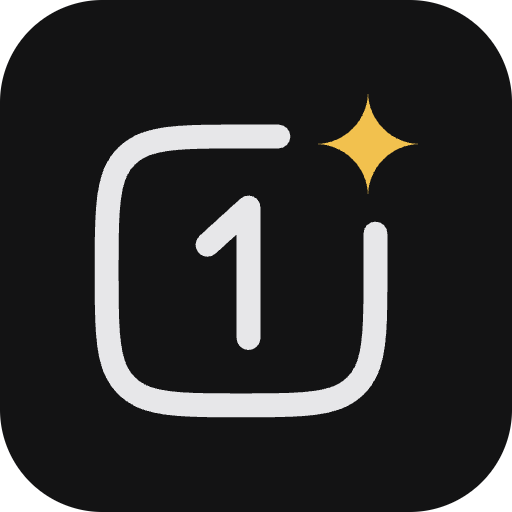
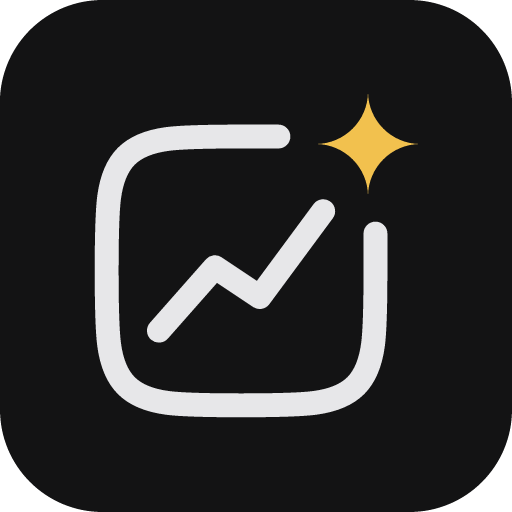
feat(web): give markets its own mark and name 1ctx in the titles
The mark is 1ctx's chip and sparkle with a rising price line in place
of the 1. It is the tab and home screen icon and the folded rail's
logo, and the sign-in sets it beside 1ctx's wordmark over Markets; the
open rail keeps 1ctx's logo. Tabs end in "1ctx Markets", and Home is
the brand alone.

Changed region(s): [[0.2812, 0.375, 0.6562, 0.6875]]

diff --git a/src/web/lib/icons.tsx b/src/web/lib/icons.tsx
@@ -4,6 +4,10 @@
 const SPARKLE =
   "M19.5 1.0C19.5 2.925 21.075 4.5 23.0 4.5C21.075 4.5 19.5 6.075 19.5 8.0C19.5 6.075 17.925 4.5 16.0 4.5C17.925 4.5 19.5 2.925 19.5 1.0Z";
 
+// "1ctx" in the wordmark's outlines, its baseline at 0
+const WORD =
+  "M4.03 0V-5.42H13.14V-29.2L3.98 -22.49V-29.2L12.03 -35H19.13V-5.42H26.47V0Z M42.62 0.48Q39.22 0.48 36.7 -0.79Q34.18 -2.06 32.79 -4.39Q31.4 -6.71 31.4 -9.88V-16.49Q31.4 -19.66 32.79 -21.98Q34.18 -24.31 36.7 -25.58Q39.22 -26.85 42.62 -26.85Q47.56 -26.85 50.56 -24.28Q53.55 -21.72 53.7 -17.31H47.8Q47.66 -19.37 46.24 -20.5Q44.83 -21.62 42.62 -21.62Q40.18 -21.62 38.79 -20.3Q37.4 -18.99 37.4 -16.54V-9.88Q37.4 -7.43 38.79 -6.09Q40.18 -4.75 42.62 -4.75Q44.88 -4.75 46.27 -5.87Q47.66 -7 47.8 -9.06H53.7Q53.55 -4.65 50.56 -2.09Q47.56 0.48 42.62 0.48Z M72.64 0Q68.95 0 66.76 -2.13Q64.58 -4.27 64.58 -7.91V-20.95H57.29V-26.37H64.58V-33.8H70.62V-26.37H81.12V-20.95H70.62V-8.05Q70.62 -6.9 71.27 -6.16Q71.92 -5.42 73.07 -5.42H80.88V0Z M85.15 0 94.36 -13.62 85.77 -26.37H92.53L96.61 -19.9Q96.99 -19.32 97.33 -18.6Q97.66 -17.88 97.81 -17.45Q98 -17.88 98.31 -18.6Q98.62 -19.32 99.01 -19.9L103.08 -26.37H109.89L101.31 -13.62L110.47 0H103.66L99.1 -7.24Q98.72 -7.82 98.36 -8.56Q98 -9.3 97.81 -9.73Q97.62 -9.3 97.28 -8.56Q96.95 -7.82 96.56 -7.24L91.96 0Z";
+
 // the brand book's stroke: 1.75 under 32 px, 1.5 from there
 export function Mark({ size = 24 }: { size?: number }) {
   return (
@@ -16,11 +20,11 @@ export function Mark({ size = 24 }: { size?: number }) {
       stroke-width={size < 32 ? 1.75 : 1.5}
       stroke-linecap="round"
       stroke-linejoin="round"
-      aria-label="1ctx"
+      aria-label="Markets"
       role="img"
     >
       <path d="M13.5 4H11C6.757 4 4.636 4 3.318 5.318S2 8.758 2 13s0 6.364 1.318 7.682S6.758 22 11 22s6.364 0 7.682-1.318S20 17.242 20 13v-2.5" />
-      <path d="M8.75 11.25 11.5 8.75V17.5" />
+      <path d="M5.5 17 9.25 12.75 12.25 14.75 16.5 9" />
       <path fill="var(--sparkle)" stroke="none" d={SPARKLE} />
     </svg>
   );
@@ -54,11 +58,22 @@ export function Logo({ height = 26 }: { height?: number }) {
           d={SPARKLE}
         />
       </g>
-      <path
-        fill="currentColor"
-        transform="translate(23 68.5)"
-        d="M4.03 0V-5.42H13.14V-29.2L3.98 -22.49V-29.2L12.03 -35H19.13V-5.42H26.47V0Z M42.62 0.48Q39.22 0.48 36.7 -0.79Q34.18 -2.06 32.79 -4.39Q31.4 -6.71 31.4 -9.88V-16.49Q31.4 -19.66 32.79 -21.98Q34.18 -24.31 36.7 -25.58Q39.22 -26.85 42.62 -26.85Q47.56 -26.85 50.56 -24.28Q53.55 -21.72 53.7 -17.31H47.8Q47.66 -19.37 46.24 -20.5Q44.83 -21.62 42.62 -21.62Q40.18 -21.62 38.79 -20.3Q37.4 -18.99 37.4 -16.54V-9.88Q37.4 -7.43 38.79 -6.09Q40.18 -4.75 42.62 -4.75Q44.88 -4.75 46.27 -5.87Q47.66 -7 47.8 -9.06H53.7Q53.55 -4.65 50.56 -2.09Q47.56 0.48 42.62 0.48Z M72.64 0Q68.95 0 66.76 -2.13Q64.58 -4.27 64.58 -7.91V-20.95H57.29V-26.37H64.58V-33.8H70.62V-26.37H81.12V-20.95H70.62V-8.05Q70.62 -6.9 71.27 -6.16Q71.92 -5.42 73.07 -5.42H80.88V0Z M85.15 0 94.36 -13.62 85.77 -26.37H92.53L96.61 -19.9Q96.99 -19.32 97.33 -18.6Q97.66 -17.88 97.81 -17.45Q98 -17.88 98.31 -18.6Q98.62 -19.32 99.01 -19.9L103.08 -26.37H109.89L101.31 -13.62L110.47 0H103.66L99.1 -7.24Q98.72 -7.82 98.36 -8.56Q98 -9.3 97.81 -9.73Q97.62 -9.3 97.28 -8.56Q96.95 -7.82 96.56 -7.24L91.96 0Z"
-      />
+      <path fill="currentColor" transform="translate(23 68.5)" d={WORD} />
+    </svg>
+  );
+}
+
+// "1ctx" alone, cropped to its letters
+export function Wordmark({ height = 26 }: { height?: number }) {
+  return (
+    <svg
+      width={Math.round((height * 107.5) / 35.7)}
+      height={height}
+      viewBox="3.5 -35.2 107.5 35.7"
+      aria-label="1ctx"
+      role="img"
+    >
+      <path fill="currentColor" d={WORD} />
     </svg>
   );
 }

diff --git a/test/web.test.tsx b/test/web.test.tsx
@@ -389,13 +389,19 @@ describe("the routes", () => {
   });
 
   test("the tab names the page before the brand", () => {
-    expect(tabTitle("/", true)).toBe("Home · Markets");
-    expect(tabTitle("/status", true)).toBe("Server status · Markets");
-    expect(tabTitle("/instruments", undefined)).toBe("Instruments · Markets");
-    expect(tabTitle("/instruments/US%3ABRK-B", true)).toBe("BRK-B · Markets");
-    expect(tabTitle("/instruments/FRED:DGS10", true)).toBe("DGS10 · Markets");
-    expect(tabTitle("/status", false)).toBe("Sign in · Markets");
-    expect(tabTitle("/nothing", true)).toBe("Markets");
+    expect(tabTitle("/", true)).toBe("1ctx Markets");
+    expect(tabTitle("/status", true)).toBe("Server status · 1ctx Markets");
+    expect(tabTitle("/instruments", undefined)).toBe(
+      "Instruments · 1ctx Markets",
+    );
+    expect(tabTitle("/instruments/US%3ABRK-B", true)).toBe(
+      "BRK-B · 1ctx Markets",
+    );
+    expect(tabTitle("/instruments/FRED:DGS10", true)).toBe(
+      "DGS10 · 1ctx Markets",
+    );
+    expect(tabTitle("/status", false)).toBe("Sign in · 1ctx Markets");
+    expect(tabTitle("/nothing", true)).toBe("1ctx Markets");
   });
 
   test("the theme follows the system until a choice is kept", () => {

diff --git a/src/web/app/title.ts b/src/web/app/title.ts
@@ -8,15 +8,16 @@ import { effect } from "@preact/signals";
 import { markets } from "../data/store.ts";
 import { symbolOf } from "../views/Instruments.model.ts";
 import { path } from "./router.ts";
-import { match } from "./routes.ts";
+import { HOME, match } from "./routes.ts";
 
-export const BRAND = "Markets";
+export const BRAND = "1ctx Markets";
 
 // signedIn is the store's: undefined until the first status answer
 export function tabTitle(here: string, signedIn: boolean | undefined): string {
   if (signedIn === false) return `Sign in · ${BRAND}`;
   const found = match(here);
-  if (found === null) return BRAND;
+  // the landing page is the product itself
+  if (found === null || found.route.path === HOME) return BRAND;
   const id = found.params.id;
   const page = id === undefined ? found.route.label : symbolOf(id);
   return `${page} · ${BRAND}`;

diff --git a/src/web/views/SignIn.tsx b/src/web/views/SignIn.tsx
@@ -4,7 +4,7 @@
 import { useSignal } from "@preact/signals";
 import { says } from "../data/api.ts";
 import type { Store } from "../data/store.ts";
-import { Logo } from "../lib/icons.tsx";
+import { Mark, Wordmark } from "../lib/icons.tsx";
 import "./signin.css";
 
 export function SignIn({ store }: { store: Store }) {
@@ -30,8 +30,11 @@ export function SignIn({ store }: { store: Store }) {
   return (
     <main class="signin">
       <div class="signin-brand">
-        <Logo height={80} />
-        <p class="signin-line">Markets</p>
+        <Mark size={64} />
+        <div class="signin-name">
+          <Wordmark height={26} />
+          <p class="signin-line">Markets</p>
+        </div>
       </div>
       <form class="signin-form card" onSubmit={submit}>
         <label class="field">

diff --git a/src/web/views/signin.css b/src/web/views/signin.css
@@ -14,18 +14,25 @@
       calc(var(--space-4) + env(safe-area-inset-left));
   }
 
+  /* the mark beside 1ctx over Markets, as 1ctx sets its lockup */
   .signin-brand {
     display: flex;
-    flex-direction: column;
     align-items: center;
-    gap: 18px;
+    gap: var(--space-4);
     color: var(--fg);
+  }
+
+  .signin-name {
+    display: flex;
+    flex-direction: column;
+    gap: 6px;
   }
 
   .signin-line {
     margin: 0;
-    font-size: var(--text-body);
-    color: var(--dim);
+    font-size: 26px;
+    font-weight: 500;
+    line-height: 1;
   }
 
   .signin-form {

diff --git a/test/web-session.test.ts b/test/web-session.test.ts
@@ -440,7 +440,7 @@ describe("the served UI", () => {
         expect(home.status).toBe(200);
         expect(home.headers.get("content-type")).toContain("text/html");
         const html = await home.text();
-        expect(html).toContain("<title>Markets</title>");
+        expect(html).toContain("<title>1ctx Markets</title>");
         expect(html).not.toMatch(/https?:\/\//);
         const linked = [...html.matchAll(/(?:src|href)="(\/[^"]+)"/g)].map(
           (m) => m[1]!,

diff --git a/src/web/index.html b/src/web/index.html
@@ -34,7 +34,7 @@
             .setAttribute("content", "#f4f2ec");
       })();
     </script>
-    <title>Markets</title>
+    <title>1ctx Markets</title>
     <link rel="icon" href="./favicon.svg" type="image/svg+xml" />
     <link rel="apple-touch-icon" href="./apple-touch-icon.png" />
     <!-- its icons are named by fixed paths that main.ts serves, since

diff --git a/docs/web.md b/docs/web.md
@@ -28,8 +28,8 @@ signed in with the admin key alone.
   an edit, with no reload script, so a UI change needs a browser
   reload, not a server restart.
 - **The UI installs to a phone's Home Screen.** `manifest.webmanifest`
-  and its icons sit beside `index.html`, copies of 1ctx's brand files
-  (the same logo). The bundler hashes what the page links but not the
+  and its icons sit beside `index.html`, drawn as 1ctx's tiles with
+  the Markets mark. The bundler hashes what the page links but not the
   URLs inside the manifest, so the manifest names its icons by fixed
   paths that `main.ts` embeds and `serve()` answers beside the page
   (`files`), public as the page is and off with `--no-ui`. The iOS
@@ -111,9 +111,9 @@ signed in with the admin key alone.
   (`display-mode: standalone`) a page of the UI opens in place even
   from a link asking for a new tab, which would leave the app.
 - **The tab's title is the page, then the brand** (`app/title.ts`):
-  "Instruments · Markets", an instrument by the symbol in its address
-  ("AAPL · Markets"), so it needs no answer, and "Sign in · Markets"
-  while signed out.
+  "Instruments · 1ctx Markets", an instrument by the symbol in its
+  address ("AAPL · 1ctx Markets"), so it needs no answer, and "Sign in
+  · 1ctx Markets" while signed out. Home is the brand alone.
 - **Views never fetch.** `data/store.ts` owns every call and signal;
   `data/api.ts` makes the calls. Any 401 signs out (the shell gives way
   to the sign-in), and a later status load supersedes one in flight.
@@ -130,12 +130,16 @@ signed in with the admin key alone.
 - **`useRefresh` sets its timer once** and calls the latest load, so a
   redraw (a crosshair moving) never pushes the refresh back.
 - **1ctx's look, copied, not shared:** `style/tokens.css`,
-  `style/base.css`, the fonts, the rail, strip and shell styles, the
-  logo and icons, trimmed to what these pages use. The rail is the
-  logo with **Markets** beside it, the pages, and the operator's menu
-  (dark theme, sign out) at the foot; it folds to a strip on a wide
-  window and is a drawer on a phone. The theme follows the system until
-  flipped; a flip is kept in `localStorage`.
+  `style/base.css`, the fonts, the rail, strip and shell styles and
+  the icons, trimmed to what these pages use. **The mark is 1ctx's
+  chip and sparkle with a rising price line in place of the 1**
+  (`Mark` in `lib/icons.tsx`, `favicon.svg` and the manifest's icons).
+  The rail is 1ctx's logo with **Markets** beside it, the pages, and
+  the operator's menu (dark theme, sign out) at the foot; it folds to a
+  strip on a wide window, which shows the mark, and is a drawer on a
+  phone. The sign-in is the mark beside 1ctx's wordmark over
+  **Markets**. The theme follows the system until flipped; a flip is
+  kept in `localStorage`.
 - **Copy is short:** sentence case, no "you", "please" or explanations.
   An error is the server's phrase as a sentence (`says()`, as 1ctx),
   so a wrong key reads "Wrong admin key.": a problem's `detail`, the
